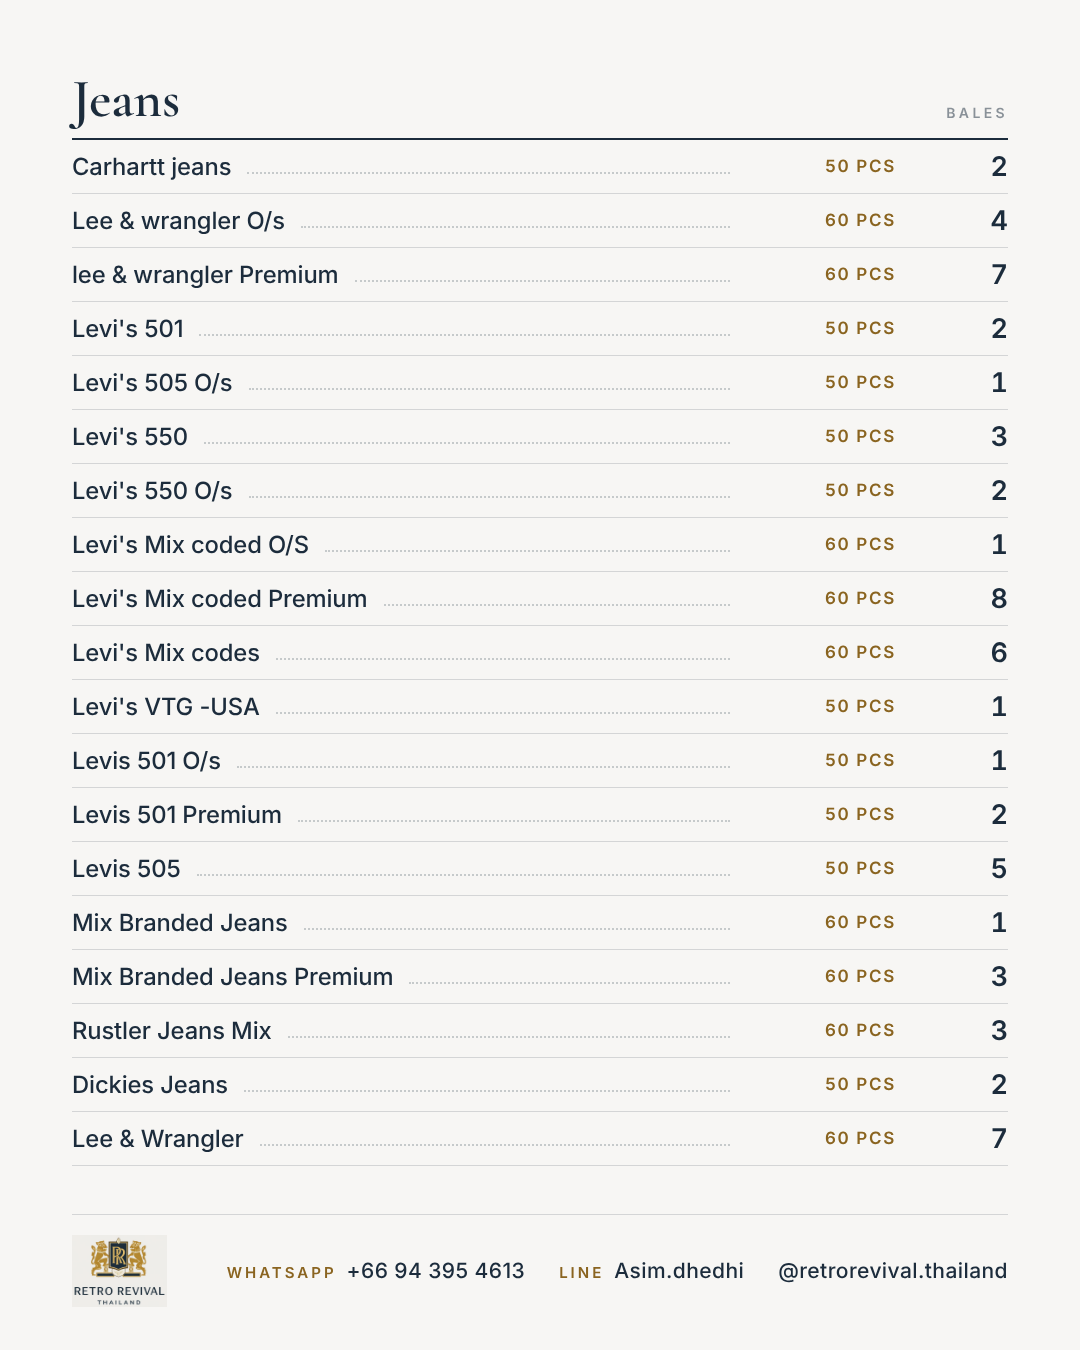
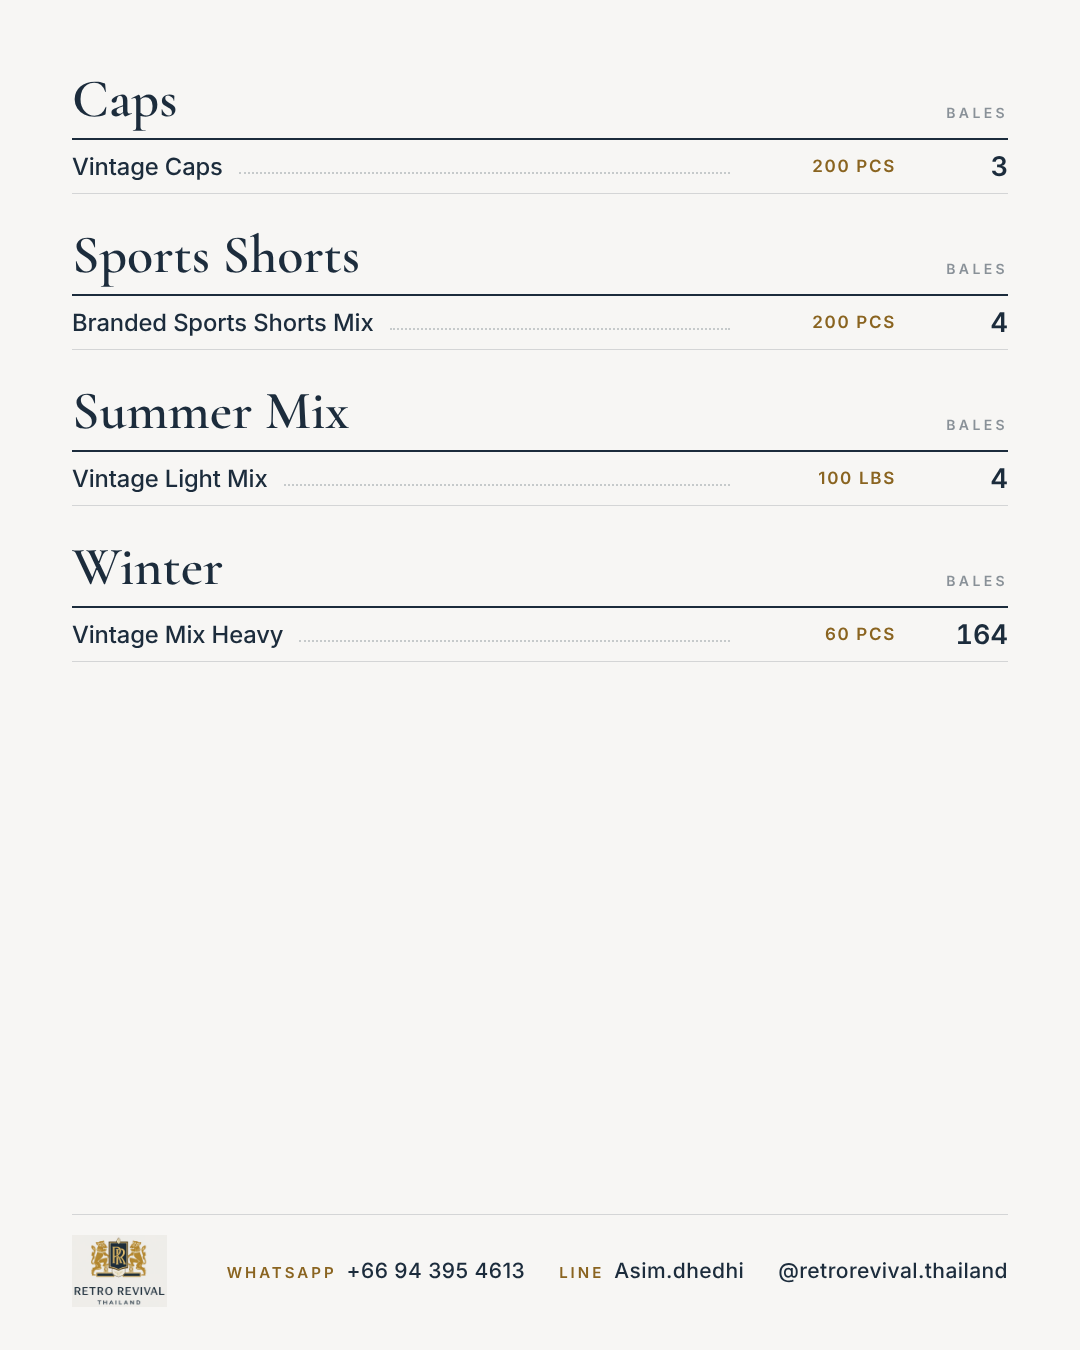
Put the emptiest list slide last
A half-empty slide in the middle made the carousel look finished early.
The slide with the most free space now always closes the carousel.

Claude-Session: https://claude.ai/code/session_01FjARQ1TdBw1wsppj9LT4t6

diff --git a/projects/stock-drop/output/2026-10/carousel.html b/projects/stock-drop/output/2026-10/carousel.html
@@ -185,43 +185,6 @@
   <section class="slide">
     <div class="body" style="--row:54px">
       <div class="block">
-        <div class="section-head"><h2>Caps</h2><span class="qt">Bales</span></div>
-        <ul class="rows">
-          <li><span class="cat">Vintage Caps</span><span class="leader"></span><span class="pk">200 PCs</span><span class="qty">3</span></li>
-        </ul>
-      </div>
-      <div class="block">
-        <div class="section-head"><h2>Sports Shorts</h2><span class="qt">Bales</span></div>
-        <ul class="rows">
-          <li><span class="cat">Branded Sports Shorts Mix</span><span class="leader"></span><span class="pk">200 Pcs</span><span class="qty">4</span></li>
-        </ul>
-      </div>
-      <div class="block">
-        <div class="section-head"><h2>Summer Mix</h2><span class="qt">Bales</span></div>
-        <ul class="rows">
-          <li><span class="cat">Vintage Light Mix</span><span class="leader"></span><span class="pk">100 Lbs</span><span class="qty">4</span></li>
-        </ul>
-      </div>
-      <div class="block">
-        <div class="section-head"><h2>Winter</h2><span class="qt">Bales</span></div>
-        <ul class="rows">
-          <li><span class="cat">Vintage Mix Heavy</span><span class="leader"></span><span class="pk">60 Pcs</span><span class="qty">164</span></li>
-        </ul>
-      </div>
-    </div>
-    <div class="footer">
-      <img class="logo" src="../../../../assets/brand/logo-primary-trimmed.png" alt="Retro Revival Thailand">
-      <div class="contacts">
-        <span><b>WHATSAPP</b>+66 94 395 4613</span>
-        <span><b>LINE</b>Asim.dhedhi</span>
-        <span>@retrorevival.thailand</span>
-      </div>
-    </div>
-  </section>
-
-  <section class="slide">
-    <div class="body" style="--row:54px">
-      <div class="block">
         <div class="section-head"><h2>Jeans</h2><span class="qt">Bales</span></div>
         <ul class="rows">
           <li><span class="cat">Carhartt jeans</span><span class="leader"></span><span class="pk">50 Pcs</span><span class="qty">2</span></li>
@@ -243,6 +206,43 @@
           <li><span class="cat">Rustler Jeans Mix</span><span class="leader"></span><span class="pk">60 Pcs</span><span class="qty">3</span></li>
           <li><span class="cat">Dickies Jeans</span><span class="leader"></span><span class="pk">50 Pcs</span><span class="qty">2</span></li>
           <li><span class="cat">Lee &amp; Wrangler</span><span class="leader"></span><span class="pk">60 Pcs</span><span class="qty">7</span></li>
+        </ul>
+      </div>
+    </div>
+    <div class="footer">
+      <img class="logo" src="../../../../assets/brand/logo-primary-trimmed.png" alt="Retro Revival Thailand">
+      <div class="contacts">
+        <span><b>WHATSAPP</b>+66 94 395 4613</span>
+        <span><b>LINE</b>Asim.dhedhi</span>
+        <span>@retrorevival.thailand</span>
+      </div>
+    </div>
+  </section>
+
+  <section class="slide">
+    <div class="body" style="--row:54px">
+      <div class="block">
+        <div class="section-head"><h2>Caps</h2><span class="qt">Bales</span></div>
+        <ul class="rows">
+          <li><span class="cat">Vintage Caps</span><span class="leader"></span><span class="pk">200 PCs</span><span class="qty">3</span></li>
+        </ul>
+      </div>
+      <div class="block">
+        <div class="section-head"><h2>Sports Shorts</h2><span class="qt">Bales</span></div>
+        <ul class="rows">
+          <li><span class="cat">Branded Sports Shorts Mix</span><span class="leader"></span><span class="pk">200 Pcs</span><span class="qty">4</span></li>
+        </ul>
+      </div>
+      <div class="block">
+        <div class="section-head"><h2>Summer Mix</h2><span class="qt">Bales</span></div>
+        <ul class="rows">
+          <li><span class="cat">Vintage Light Mix</span><span class="leader"></span><span class="pk">100 Lbs</span><span class="qty">4</span></li>
+        </ul>
+      </div>
+      <div class="block">
+        <div class="section-head"><h2>Winter</h2><span class="qt">Bales</span></div>
+        <ul class="rows">
+          <li><span class="cat">Vintage Mix Heavy</span><span class="leader"></span><span class="pk">60 Pcs</span><span class="qty">164</span></li>
         </ul>
       </div>
     </div>

diff --git a/docs/client/decisions.md b/docs/client/decisions.md
@@ -4,7 +4,7 @@ Answers and decisions confirmed by the client or Hammad. Add new entries at the 
 
 | Date | Decision | Source | Docs updated |
 | :- | :- | :- | :- |
-| 2026-10-10 | A section is never split across slides. Sections may be rearranged to fit. Numerals use lining figures (no dropped 3s) | Hammad | projects/stock-drop |
+| 2026-10-10 | A section is never split across slides. Sections may be rearranged to fit, and the emptiest slide always goes last. Numerals use lining figures (no dropped 3s) | Hammad | projects/stock-drop |
 | 2026-10-10 | The carousel is 7 slides at most: the cover and the list. No contact slide (contacts sit in every footer and on the cover), index, totals, page numbers, section numbers, or "why us" slide | Hammad | projects/stock-drop |
 | 2026-10-10 | October 2026 inventory received: `ETA141026.xlsx`, 80 bale lines in 17 sections, 641 bales. Quantities are in bales, and each line states its packing (pcs or lbs per bale) | Client sheet | projects/stock-drop |
 | 2026-10-10 | The repo is organised as one repo for Retro Revival, with one folder per workstream under `projects/` | Hammad | README.md |

diff --git a/projects/stock-drop/README.md b/projects/stock-drop/README.md
@@ -76,6 +76,7 @@ Less is more: **7 slides at most**, the cover and the list. Nothing else.
 
 - List slides carry only the list, plus a footer with the logo, WhatsApp, LINE, and Instagram. No index, totals, page numbers, or section numbers.
 - **Packing:** sections are rearranged to fit, largest first, so the slides don't follow sheet order. Within a slide, sections keep sheet order.
+- **Emptiest slide last:** the slide with the most free space always goes at the end, so the carousel never looks finished early.
 - **Auto-fit:** the build tries row heights from most to least readable (72px down to 54px) and uses the first where every section fits whole within 7 slides. If a month's sheet can't fit even at 54px, the build stops and names the largest section. Raise `MAX_SLIDES` in `src/build.mjs` only if you accept more slides.
 
 Contact details come from `src/brand.mjs`. Keep that file in sync with the [business profile](../../docs/research/business-profile.md).
